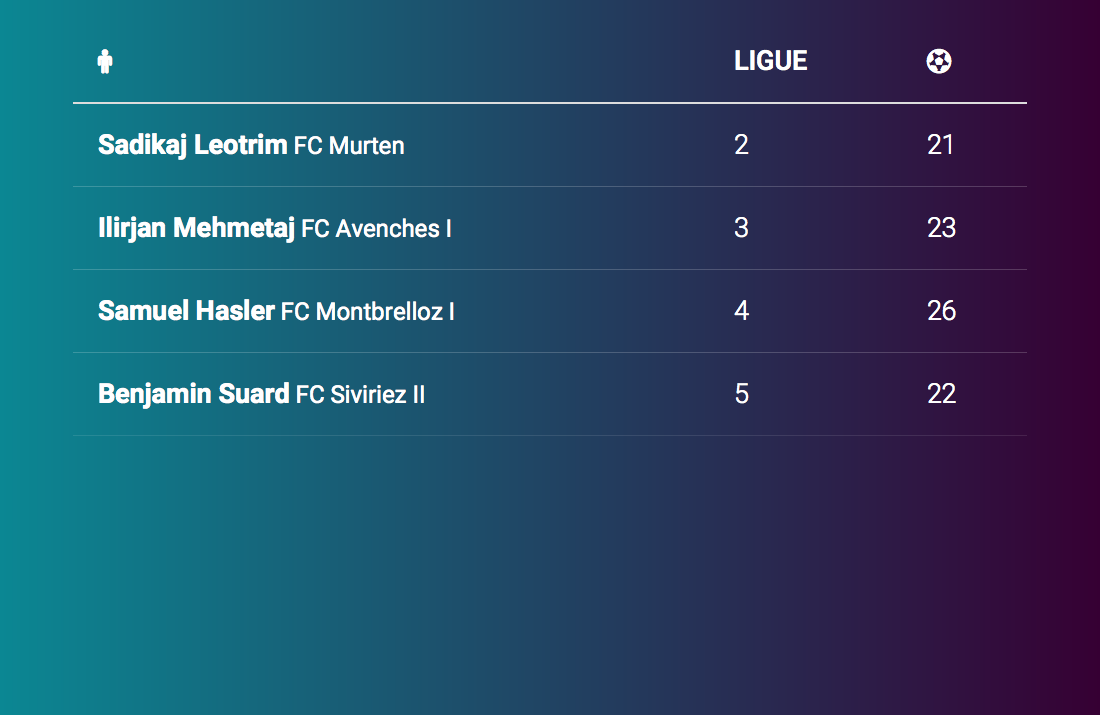
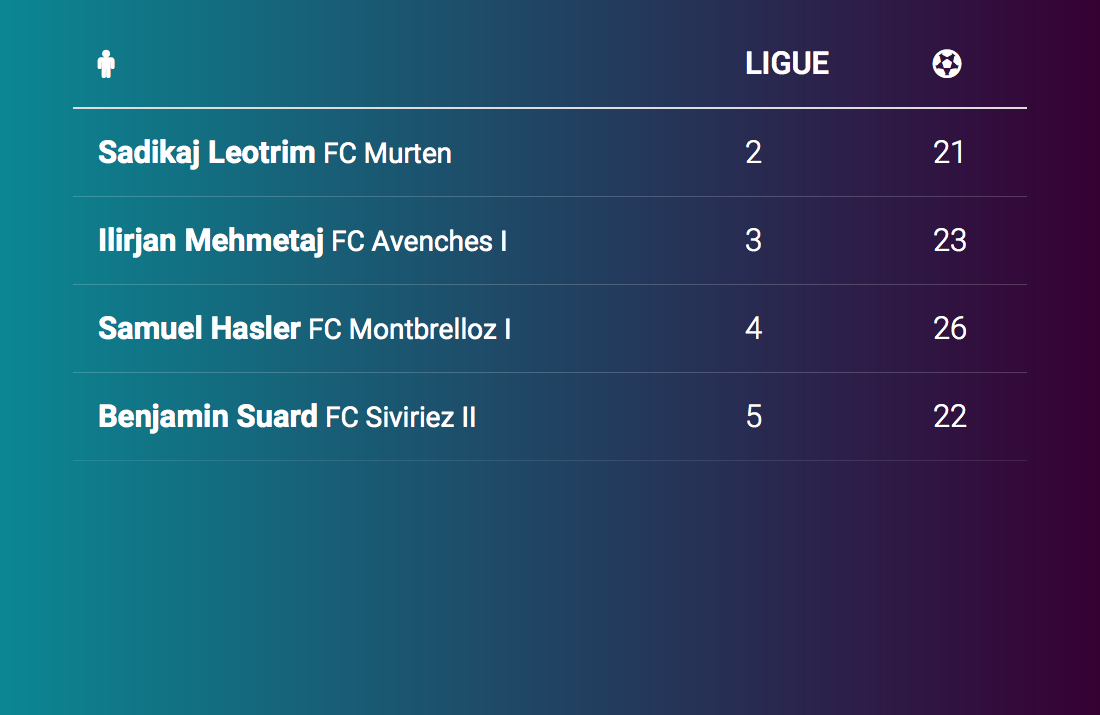
Resize images

diff --git a/assets/styles/images.css b/assets/styles/images.css
@@ -1,1 +1,1 @@
-@import url(http://fonts.googleapis.com/css?family=Roboto:400,500,300,700);h1{font-size:30px;color:#fff;text-transform:uppercase;font-weight:300;text-align:center;margin-bottom:15px}table{width:100%}.tbl-header{background-color:rgba(255,255,255,0.3)}.tbl-content{height:300px;overflow-x:auto;margin-top:0px;border:1px solid rgba(255,255,255,0.3)}.table-striped{color:#333}.stats-table-social-post th{padding:15px 15px;text-align:left;font-weight:500;font-size:12px;color:#fff;text-transform:uppercase}.stats-table-social-post td{padding:10px;text-align:left;vertical-align:middle;font-weight:300;font-size:15px;color:#fff;border-bottom:solid 1px rgba(255,255,255,0.1)}.stats-social-container{width:945px;padding:20px}.size300.stats-social-container{width:300px;height:195px;padding:5px}.size300.stats-social-container .stats-table-social-post{width:100%;margin:auto}.size300.stats-social-container table tr td{vertical-align:middle;font-size:0.8em;line-height:1.2}.size300.stats-social-container table tr td i{font-size:0.7em}.size500.stats-social-container{width:500px;height:325px;padding:20px}.size500.stats-social-container .stats-table-social-post{width:100%;margin:auto}.size500.stats-social-container table tr td,.size500.stats-social-container table tr th{vertical-align:middle;font-size:1.1em;line-height:1.2}.size500.stats-social-container table tr td i,.size500.stats-social-container table tr th i{font-size:0.9em}.size800.stats-social-container{width:800px;height:520px;padding:20px}.size800.stats-social-container .stats-table-social-post{width:90%;margin:auto}.size800.stats-social-container table tr td,.size800.stats-social-container table tr th{vertical-align:middle;font-size:1.6em;line-height:1.3;padding:15px}.size800.stats-social-container table tr td i,.size800.stats-social-container table tr th i{font-size:0.8em}.size1100.stats-social-container{width:1100px;height:715px;padding:20px}.size1100.stats-social-container .stats-table-social-post{width:90%;margin:auto}.size1100.stats-social-container table tr td,.size1100.stats-social-container table tr th{vertical-align:middle;font-size:1.9em;line-height:1.2;padding:25px}.size1100.stats-social-container table tr i{font-size:0.9em}.size2200.stats-social-container{width:2200px;height:1430px;padding:40px}.size2200.stats-social-container .stats-table-social-post{width:90%;margin:auto}.size2200.stats-social-container table tr td,.size2200.stats-social-container table tr th{vertical-align:middle;font-size:4.5em;line-height:1.2;padding:50px}.size2200.stats-social-container table tr i{font-size:0.9em}.facebook.stats-social-container{width:1200px;height:630px;padding:20px}.stats-table-social-post{width:527px;margin:auto}.facebook .stats-table-social-post{width:1000px;margin:auto}.facebook table{margin-top:40px}.facebook .stats-table-social-post table tr td,.facebook .stats-table-social-post table tr th{font-size:30px;vertical-align:middle;padding:15px}#all-leagues table{width:700px;background:white}.stats-table-social-post-info{text-align:center}.stats-table-social-post-info h2{margin-top:50px}#stats-collect table td{font-size:16px;text-align:center}#stats-collect table th{font-size:14px;text-align:center;font-weight:400}#resume table tr td{vertical-align:middle}.stats-table-social-post table tr td{vertical-align:middle;font-size:1em;line-height:1.2}.stats-table-social-post table tr td i{font-size:0.9em;line-height:1;font-weight:normal}.acgf{background:-webkit-linear-gradient(to left, #457fca, #5691c8);background:linear-gradient(to left, #457fca, #5691c8)}.acvf{background:#134E5E;background:-webkit-linear-gradient(to left, #134E5E, #71B280);background:linear-gradient(to left, #134E5E, #71B280)}.aff{background:#360033;background:-webkit-linear-gradient(to left, #360033, #0b8793);background:linear-gradient(to left, #360033, #0b8793)}.avf{background:#7b4397;background:-webkit-linear-gradient(to left, #7b4397, #dc2430);background:linear-gradient(to left, #7b4397, #dc2430)}.anf{background:#673AB7;background:-webkit-linear-gradient(to left, #673AB7, #512DA8);background:linear-gradient(to left, #673AB7, #512DA8)}.global{background:#1e3c72;background:-webkit-linear-gradient(to left, #1e3c72, #2a5298);background:linear-gradient(to left, #1e3c72, #2a5298)}body{color:#fff;font-family:'Roboto', sans-serif}section{margin:70px}#topflop{background:#2D3142;color:#BFC0C0;width:1030px;height:520px}#topflop th,#topflop td{text-align:center;border:none}#topflop th{font-size:2.3em;padding-top:30px;padding-bottom:30px}#topflop tbody tr:nth-child(1){color:#26C485;font-size:1.5em}#topflop tbody tr:nth-child(1) td,#topflop tbody tr:nth-child(3) td{height:20px}#topflop tbody tr:nth-child(3){color:#EE6C4D;font-size:1.5em}#topflop tbody tr:nth-child(2),#topflop tbody tr:nth-child(4){font-size:2em;height:30px}
+@import url(http://fonts.googleapis.com/css?family=Roboto:400,500,300,700);h1{font-size:30px;color:#fff;text-transform:uppercase;font-weight:300;text-align:center;margin-bottom:15px}table{width:100%}.tbl-header{background-color:rgba(255,255,255,0.3)}.tbl-content{height:300px;overflow-x:auto;margin-top:0px;border:1px solid rgba(255,255,255,0.3)}.table-striped{color:#333}.stats-table-social-post th{padding:15px 15px;text-align:left;font-weight:500;font-size:12px;color:#fff;text-transform:uppercase}.stats-table-social-post td{padding:10px;text-align:left;vertical-align:middle;font-weight:300;font-size:15px;color:#fff;border-bottom:solid 1px rgba(255,255,255,0.1)}.stats-social-container{width:945px;padding:20px}.size300.stats-social-container{width:300px;height:195px;padding:5px}.size300.stats-social-container .stats-table-social-post{width:100%;margin:auto}.size300.stats-social-container table tr td{vertical-align:middle;font-size:0.8em;line-height:1.2}.size300.stats-social-container table tr td i{font-size:0.7em}.size500.stats-social-container{width:500px;height:325px;padding:20px}.size500.stats-social-container .stats-table-social-post{width:100%;margin:auto}.size500.stats-social-container table tr td,.size500.stats-social-container table tr th{vertical-align:middle;font-size:1.25em;line-height:1.2;padding:12px}.size500.stats-social-container table tr td i,.size500.stats-social-container table tr th i{font-size:0.9em}.size800.stats-social-container{width:800px;height:520px;padding:20px}.size800.stats-social-container .stats-table-social-post{width:90%;margin:auto}.size800.stats-social-container table tr td,.size800.stats-social-container table tr th{vertical-align:middle;font-size:2em;line-height:1.3;padding:19px}.size800.stats-social-container table tr td i,.size800.stats-social-container table tr th i{font-size:0.8em}.size1100.stats-social-container{width:1100px;height:715px;padding:20px}.size1100.stats-social-container .stats-table-social-post{width:90%;margin:auto}.size1100.stats-social-container table tr td,.size1100.stats-social-container table tr th{vertical-align:middle;font-size:2.2em;line-height:1.2;padding:25px}.size1100.stats-social-container table tr i{font-size:0.9em}.size2200.stats-social-container{width:2200px;height:1430px;padding:40px}.size2200.stats-social-container .stats-table-social-post{width:90%;margin:auto}.size2200.stats-social-container table tr td,.size2200.stats-social-container table tr th{vertical-align:middle;font-size:5.5em;line-height:1.8;padding:50px}.size2200.stats-social-container table tr i{font-size:0.9em}.facebook.stats-social-container{width:1200px;height:630px;padding:20px}.stats-table-social-post{width:527px;margin:auto}.facebook .stats-table-social-post{width:1000px;margin:auto}.facebook table{margin-top:40px}.facebook .stats-table-social-post table tr td,.facebook .stats-table-social-post table tr th{font-size:30px;vertical-align:middle;padding:15px}#all-leagues table{width:700px;background:white}.stats-table-social-post-info{text-align:center}.stats-table-social-post-info h2{margin-top:50px}#stats-collect table td{font-size:16px;text-align:center}#stats-collect table th{font-size:14px;text-align:center;font-weight:400}#resume table tr td{vertical-align:middle}.stats-table-social-post table tr td{vertical-align:middle;font-size:1em;line-height:1.2}.stats-table-social-post table tr td i{font-size:0.9em;line-height:1;font-weight:normal}.acgf{background:-webkit-linear-gradient(to left, #457fca, #5691c8);background:linear-gradient(to left, #457fca, #5691c8)}.acvf{background:#134E5E;background:-webkit-linear-gradient(to left, #134E5E, #71B280);background:linear-gradient(to left, #134E5E, #71B280)}.aff{background:#360033;background:-webkit-linear-gradient(to left, #360033, #0b8793);background:linear-gradient(to left, #360033, #0b8793)}.avf{background:#7b4397;background:-webkit-linear-gradient(to left, #7b4397, #dc2430);background:linear-gradient(to left, #7b4397, #dc2430)}.anf{background:#673AB7;background:-webkit-linear-gradient(to left, #673AB7, #512DA8);background:linear-gradient(to left, #673AB7, #512DA8)}.global{background:#1e3c72;background:-webkit-linear-gradient(to left, #1e3c72, #2a5298);background:linear-gradient(to left, #1e3c72, #2a5298)}body{color:#fff;font-family:'Roboto', sans-serif}section{margin:70px}#topflop{background:#2D3142;color:#BFC0C0;width:1030px;height:520px}#topflop th,#topflop td{text-align:center;border:none}#topflop th{font-size:2.3em;padding-top:30px;padding-bottom:30px}#topflop tbody tr:nth-child(1){color:#26C485;font-size:1.5em}#topflop tbody tr:nth-child(1) td,#topflop tbody tr:nth-child(3) td{height:20px}#topflop tbody tr:nth-child(3){color:#EE6C4D;font-size:1.5em}#topflop tbody tr:nth-child(2),#topflop tbody tr:nth-child(4){font-size:2em;height:30px}

diff --git a/_assets/styles/images.scss b/_assets/styles/images.scss
@@ -71,8 +71,9 @@ $image-height: 300px;
 	table tr{ 
 			td,th{
 			vertical-align: middle;
-			font-size: 1.1em;
+			font-size: 1.25em;
 			line-height: 1.2;
+			padding:12px;
 			i{
 				font-size: 0.9em;
 			}
@@ -90,9 +91,9 @@ $image-height: 300px;
 	table tr{
 		td,th{
 			vertical-align: middle;
-			font-size: 1.6em;
+			font-size: 2em;
 			line-height: 1.3;
-			padding:15px;
+			padding:19px;
 			i{
 				font-size: 0.8em;
 			}
@@ -110,7 +111,7 @@ $image-height: 300px;
 	table tr{
 		td,th{
 			vertical-align: middle;
-			font-size: 1.9em;
+			font-size: 2.2em;
 			line-height: 1.2;
 			padding:25px;
 		}
@@ -130,8 +131,8 @@ $image-height: 300px;
 	table tr{
 		td,th{
 			vertical-align: middle;
-			font-size: 4.5em;
-			line-height: 1.2;
+			font-size: 5.5em;
+			line-height: 1.8;
 			padding:50px;
 		}
 		i{
